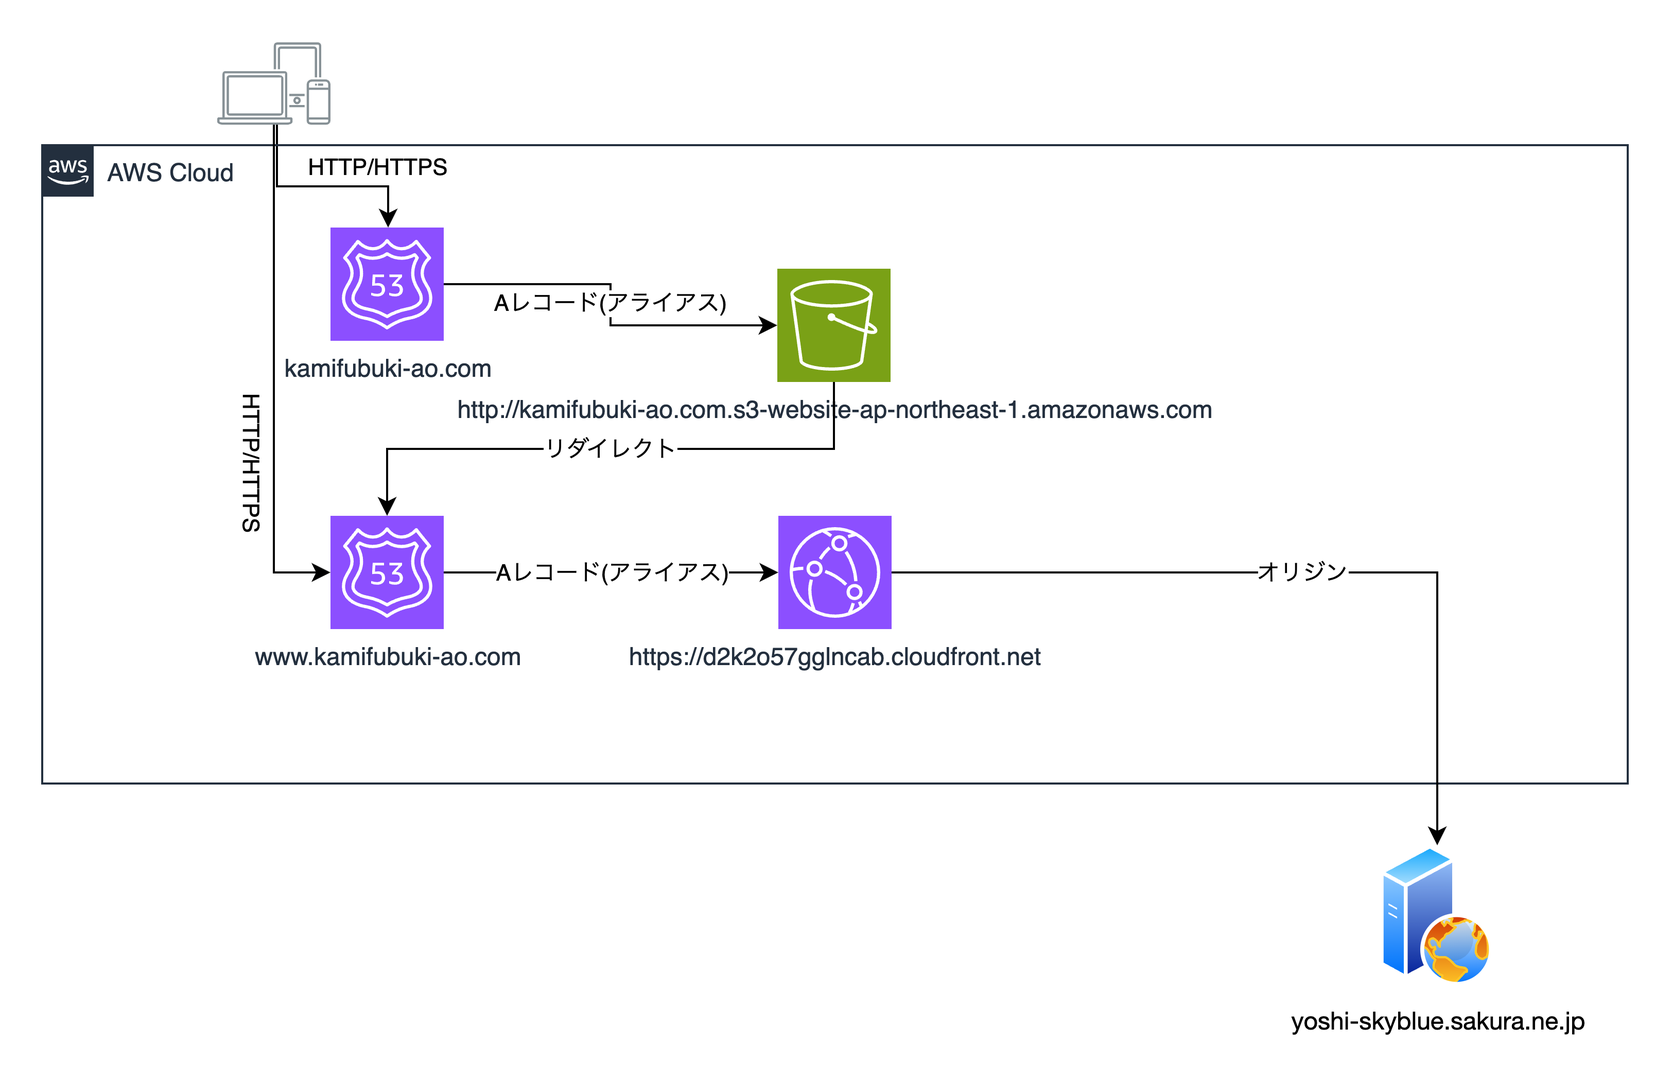
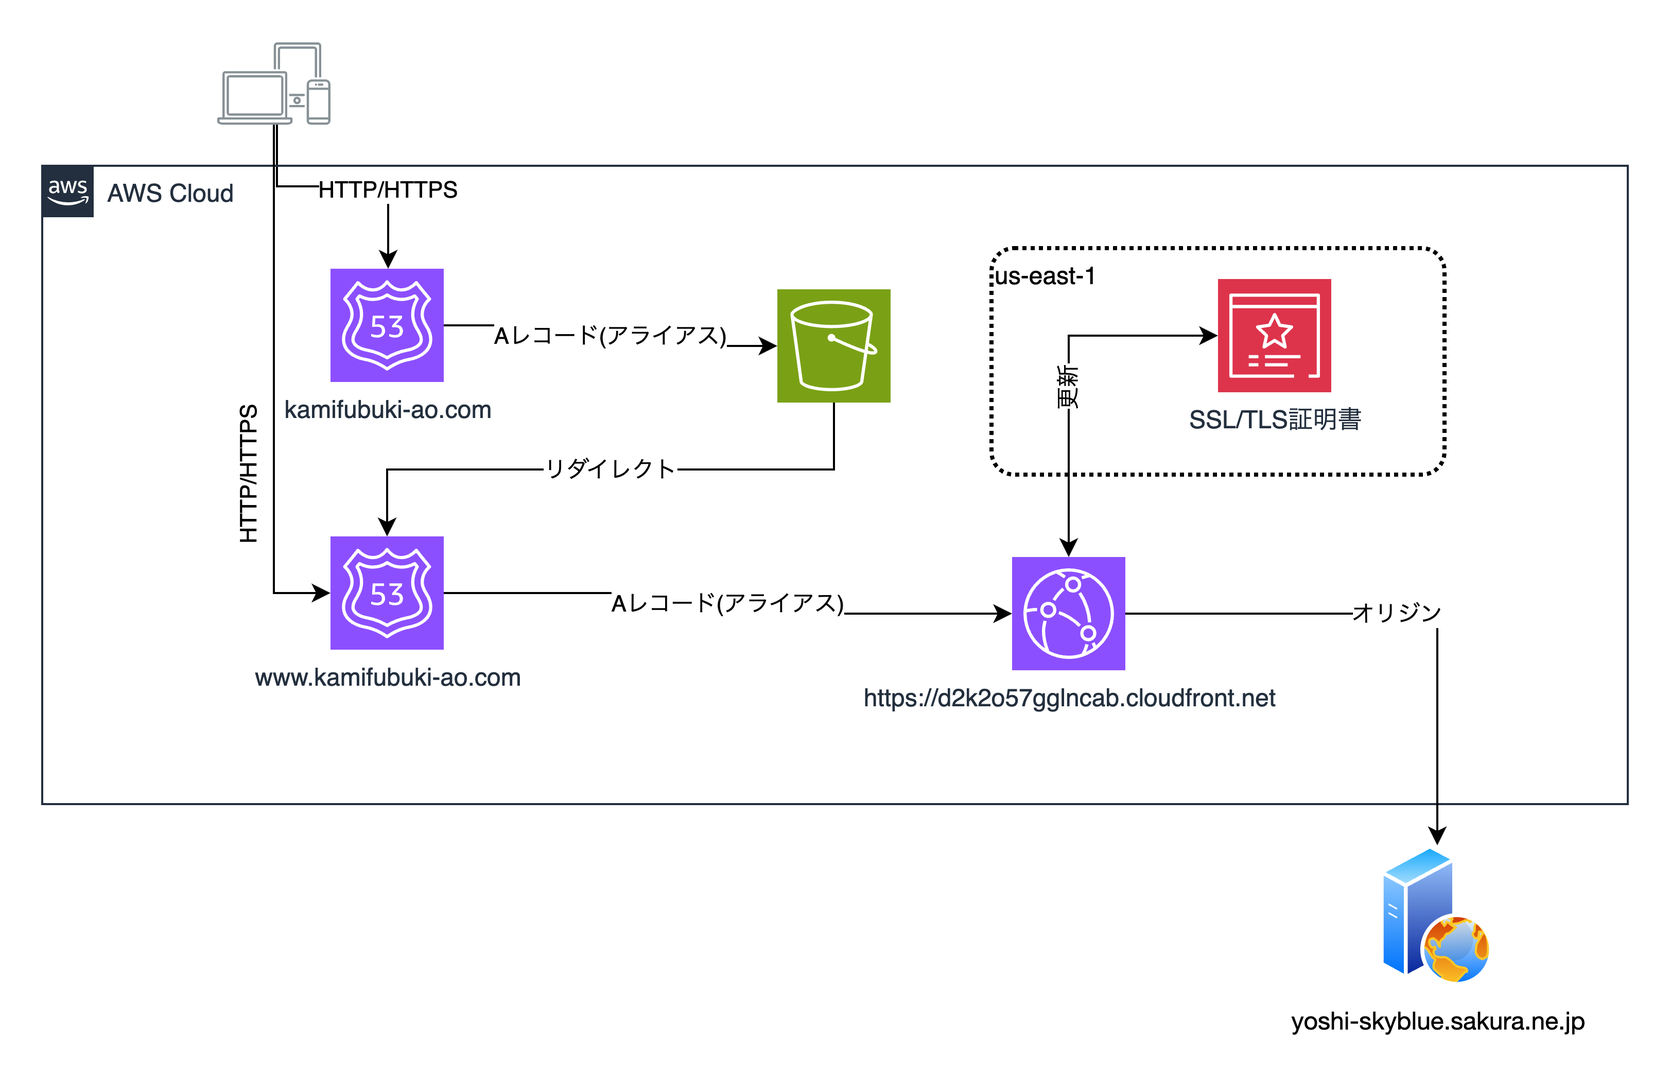
create how to change domain regist 2

diff --git a/articles/how-to-change-domain-regist-2.md b/articles/how-to-change-domain-regist-2.md
@@ -1,0 +1,359 @@
+---
+title: "ドメインをさくらインターネットからRoute 53へダウンタイムなしで移管する方法-Part2"
+emoji: "💻"
+type: "tech" # tech: 技術記事 / idea: アイデア
+topics: [ドメイン,移管,さくらインターネット,Route53]
+published: false
+---
+
+
+## はじめに
+
+前回の記事は[こちら][last-article]をご参照ください。
+
+**今回、AWSのACM,CloudFront,S3を使用します。基本的に基本的にこの通りに設定すれば一定アクセスまでは無料のはずですが、自分がAWS初学者なのもあって料金体系の把握ができていなく、リクエストに対してコストがかかってしまう場合もございます。各自が提供するサービスのリクエストに応じて変化するのでかならず事前に調べるようにしてください。**
+[AWS 料金表ページ][AWS-cost]
+
+### 自分の目標
+
+最終的にはこの構成図の通りになるようにしたいです
+![domain-diagram](/images/howto-change-domain-regist/AWS-configDiagram-Web.png)
+
+### 前回のあらすじ
+
+ドメイン移管の準備としてとしてゾーン情報をDNSサーバーをAWSに移行しました。
+
+#### 現状
+
+- ドメインの管理はまださくらのドメインのまま(課金先はさくらのドメインのまま)。
+- ドメインのゾーン情報,DNSのみAWSに移行した。
+- APEXドメイン(kamifubuki-ao.com)にアクセスするとさくらのレンタルサーバでホスティングされているwebサイトは表示されるもののSSL証明書はLet's Encryptのまま
+
+**だと思いますが、思考錯誤の過程でトライ&エラー繰り返してしまったので同じように作業しているあなたが全く同じ状況かわかりません。最終的に設定が終われば問題なく動作しますが、途中で記事に書いてるにもかかわらずドメインに繋がらなくなった等ございましたら以下問い合わせにてご連絡いただくかTwitterのDMまでご連絡ください。**
+[お問い合わせ][contact-link]
+
+## ドメインを移管する
+
+[Part1][last-article]で準備が終わったので、今回の一番の目的であるドメインの移管を行っていきます。
+
+### さくらのドメインで移管手続きをする
+
+ドメインの移管には、AuthCode(オースコード)という認証コードが必要になりますので、それをさくらのドメインに発行してもらう必要があります。
+会員メニュー > 契約中のドメイン一覧 > 移管したいドメインの手続きの欄に"転出"のリンクがあるのでそこから問い合わせます。
+
+![sakura-domain-1](/images/how-to-change-domain-regist-2/sakura-1.png)
+
+同意してください
+
+![sakura-domain-2](/images/how-to-change-domain-regist-2/sakura-2.png)
+
+一番上、会員基本情報のメールアドレスに発行されたAuthCodeが届くので、必ず受け取れるメールアドレスにしてください。
+
+サービス名称はすでにドメイン取得が選択されているので、変更しなくて大丈夫です。
+
+サーバー名/ドメイン名/IPアドレス/サービスコードの欄は任意になるので記入してもしなくても大丈夫ですが、一応記入しました。
+
+その下、質問内容のgTLDドメイン移管(転出依頼)はすでにすでに選択されていると思います。
+お問い合わせ区分は新たに実施~で大丈夫です
+
+![sakura-domain-3](/images/how-to-change-domain-regist-2/2025-03-11-15-24-25.png)
+
+申請ドメイン名も記述済みなので大丈夫です。
+管理者メールアドレスは、Route 53で申請したときにVerifyメールが来るので、受け取れるアドレスが良いですが、**もしゾーン情報のコピーミスでメールが自分のアドレスに届かなくなる可能性があるので、もし不安な方は他のメールサービスでも良いと思います。自分はiCloud.comで記入しています。**
+
+下の方、解約理由等は任意になるのでどちらでも大丈夫です。
+
+一番下の確認事項の同意だけチェックを忘れないようにして"次へ"をクリック。
+
+内容を確認して"お問い合わせの送信"で送信してください。
+
+回答までに2~3営業日かかるので一旦放置します。
+
+## SSL/TLS証明書周辺の設定を行う
+
+転出の手続きを待つ間に、構成図にも記載したようにSSL/TLS証明書周りの設定を行います。
+今回目指す構成をもう一度おさらいしましょう。
+
+![domain-diagram](/images/howto-change-domain-regist/AWS-configDiagram-Web.png)
+
+いままでSSL/TLS証明書はさくらのレンタルサーバーで取得できたLet's Encryptで証明を行っていたのですが、今回の移管に合わせてすべてAWS内で完結させたかったのでこのような形を撮ることにしました。
+
+Route 53のみではSSL/TLS証明書の管理ができないため、www.kamifubuki-ao.comとさくらのレンタルサーバの間にCloudFrontを噛ませてそことACMでSSL/TLS証明書を更新させるようにします。
+
+### AWS Certificate Manager(ACM)でSSL/TLS証明書を作成する
+
+この部分の設定を行っていきます。
+![domain-diagram-focus-1](/images/how-to-change-domain-regist-2/AWS-configDiagram-Web-1.png)
+
+[ACM][ACM]のコンソールから証明書一覧のページに飛びます
+
+::: message alert
+のちに後に作成するCloudFrontのリージョンがグローバルになるので、ACMのリージョンがus-east-1(米国(バージニア北部))なのを確認してください。
+それ以外のリージョンで作成されたSSL/TLS証明書はCloudFrontで使用できません。
+:::
+
+リクエストから新しい証明書を作成します。
+証明書タイプはパブリック証明書にしてください。
+
+![new-SSL/TLS-certificate](/images/how-to-change-domain-regist-2/2025-03-11-17-17-52.png)
+
+::: message alert
+ここの完全修飾ドメイン名にkamifubuki-ao.comのみ入力すると、APEXドメインしか有効にならなくなってしまいます。
+自分の場合個人的なこだわりで<www.つき>にリダイレクトさせたいので"*.kamifubuki-ao.com"のワイルドカードをつけたドメインも追加しておきます。
+
+ほかのサイトでサブドメインを使用したい場合はワイルドカードを追加したドメインも追加するようにしてください。
+
+もし<www.ドメイン>のみの利用想定であればワイルドカードではなく<www.ドメイン>の形で追加しても構いません。(他のサブドメインでの利用も考えているので自分はワイルドカードワイルドカードを使用しています。)
+:::
+
+そのほかのキーアルゴリズム,タグは初期設定のままで構いません。
+
+### ゾーン情報にCNAMEレコードを追加する
+
+AWSの場合、詳細画面からRoute 53で直接レコードを作成できるのでそちらから追加してしまって大丈夫です。便利。
+
+![ACM](/images/how-to-change-domain-regist-2/2025-03-11-17:26:13.png)
+![ACM-2](/images/how-to-change-domain-regist-2/2025-03-11-17:28.28.png)
+
+上の画像は両方とも両方とも検証ステータスが成功になっていますが、追加したばかりだとなっていないはずなので、両方ともチェックを入れてレコードを作成してください。
+
+### CloudFrontのディストリビューションを作成する
+
+続いて、こちらの設定をしていきます。
+![domain-diagram-focus-2](/images/how-to-change-domain-regist-2/AWS-configDiagram-Web-2.png)
+
+[CloudFront][CF]のコンソールにアクセスします。
+CloudFrontは自動的にリージョンがグローバルになるので、特にリージョンは設定しなくて大丈夫です。
+
+一覧の右上にある"ディストリビューションを作成"から新しいディストリビューションを作成します。
+
+![new-Dist](/images/how-to-change-domain-regist-2/2025-03-11-18-28-44.png)
+
+| 項目名 | 設定内容 |
+| --- | --- |
+| Origin dmain| さくらのレンタルサーバの初期ドメイン |
+| プロトコル | HTTPSのみ |
+| Minimum Origin SSL protocol | TLSv1.2 |
+| Origin Path | 空欄 |
+| 名前 | 自由(後から変更できないのでなんでもいいですが慎重に) |
+|カスタムヘッダーを追加 | 空欄 |
+| Enable Origin Shield | いいえ |
+| 追加設定 | すべて初期値 |
+
+![new-Dist-2](/images/how-to-change-domain-regist-2/2025-03-11-19-46-45.png)
+
+| 項目名 | 設定内容 |
+| --- | --- |
+| パスパターン | デフォルト |
+| オブジェクトを自動的に変換 | Yes |
+| ビューワープロトコルポリシー | Redirect HTTP to HTTPS |
+| 許可されたHTTPメソッド | GET, HEAD, OPTIONS, PUT, POST, PATCH, DELETE |
+| ビューワーのアクセスを制限する | No |
+
+![new-Dist-3](/images/how-to-change-domain-regist-2/2025-03-11-19-50-41.png)
+
+| 項目名 | 設定内容 |
+| --- | --- |
+| キャッシュキーとオリジンリクエスト | Cache policy and origin request policy (recommended) (初期値) |
+| キャシュポリシー/オリジンリクエストポリシー | 初期値(Recommended for custom origins) |
+| レスポンスヘッダーポリシー | 空欄 |
+| 追加設定 | すべて初期値 |
+
+---
+
+**次の項、WAFに関してはあなたが管理するサービスの重要度に応じて設定してください。**
+**ここでのスクリーンショットを用いた説明はしません。(自分がオフで設定しているため)**
+**セキュリティ保護を有効にするともっともベーシックな設定で1000万件のりクエストに対して14USDのコストがかかります。WAFをオフにする場合、追加コストはかかりません。**
+
+---
+
+![new-Dist-4](/images/how-to-change-domain-regist-2/2025-03-11-19-58-26.png)
+
+| 項目名 | 設定内容 |
+| --- | --- |
+| Anycast static IP list | 空欄 |
+| 料金クラス | すべてのエッジロケーションを使用する (最高のパフォーマンス) |
+| 代替ドメイン名 (CNAME) | <www.つきのドメイン名> |
+| Custom SSL certificate | 先ほどACMで作成した証明書を選択 |
+| レガシークライアントサポート | チェック外したまま |
+| セキュリティポリシー | TLSv1.2_2021 (推奨) |
+
+![new-Dist-5](/images/how-to-change-domain-regist-2/2025-03-11-22-29-27.png)
+
+| 項目名 | 設定内容 |
+| --- | --- |
+| サポートされているHTTPバージョン | 特に制限ないですが、両方チェックをいれておけば問題ないです |
+| デフォルトルートオブジェクト | 空欄 |
+| IPv6 | 各自がホスティングするサービスでIPv6を使用していなければオフ |
+| ログ配信 | おまかせします |
+
+以上設定したらディストリビューションを作成。
+
+![Maked-Dist](/images/how-to-change-domain-regist-2/2025-03-11-23-41-15.png)
+
+代替ドメイン名が自身が目指したいドメインになっているか、カスタムSSL証明書の右端に緑のチェックマークがあるかどうかを確認してください。
+
+## <www.ドメイン>からのルーティングを行う
+
+<www.ドメイン>からのリクエストをCloudFrontに経由させてオリジン(さくらのレンタルサーバ)に向かわせるようにRoute53の設定をしていきます。
+
+下図の部分です。
+![domain-diagram-focus-4](/images/how-to-change-domain-regist-2/AWS-configDiagram-Web-3.png)
+
+まずRoute53の[コンソール][r53-console]から該当ドメインのホストゾーンのページを開きます。
+
+レコードを作成
+![r53-hostzone](/images/how-to-change-domain-regist-2/2025-03-12-0-17-14.png)
+
+| 項目 | 設定内容 |
+| --- | --- |
+| レコード目 | www |
+| レコードタイプ | A |
+| エイリアス(トグルスイッチ) | オン |
+| トラフィックのルーティング名 | CloudFrontディストリビューションへのエイリアス |
+| 2個目のドロップダウンリスト | 先ほど作成したCloudFrontディストリビューションのドメイン名 |
+| ルーティングポリシー | シンプルルーティング |
+
+入力が完了したらレコードを作成してください。
+
+Chrome等で開発者ツールのネットワークタブを開いたまま開いたまま確認して
+x-cache:    Miss from cloudfront
+の表記があればCloudFrontを噛ませられている証拠です。
+
+![Chrome](/images/how-to-change-domain-regist-2/2025-03-12-02-18-04.png)
+
+![SSL/TLS](/images/how-to-change-domain-regist-2/2025-03-12-02-20-11.png)
+
+httpsで接続できていること/発行元の一般名がAmazon RSAになっていることが確認できれば
+この章でやりたかったことは完了です。
+
+## APEXドメインへのリクエストを<www.ドメイン>にリダイレクトさせる
+
+今回、個人的にAPEX(裸)ドメインからのアクセスも<www.ドメイン>に合流させたいので、APEXドメインへのリクエストを<www.ドメイン>にリダイレクトさせる設定を行います。
+
+この部分ですね。
+
+![domain-diagram-focus-4](/images/how-to-change-domain-regist-2/AWS-configDiagram-Web-4.png)
+
+AWS Route53では裸ドメインから<www.ドメイン>に飛ばすCNAMEレコードを作成することが仕様上できません。そのため、回避策としてS3バケットにて静的Webサイトをホスティングしてそちらから301リダイレクトを行います。
+
+### S3バケットを作成する
+
+::: message
+作成するリージョンの縛りはACMと違ってありません。お好みのリージョンで作成してください。
+:::
+
+![S3-Bucket-1](/images/how-to-change-domain-regist-2/2025-03-12-02-33-33.png)
+
+| 項目 | 設定内容 |
+| --- | --- |
+| バケットタイプ | 汎用 |
+| バケット名 | APEXドメイン(リダイレクト元となるドメイン)|
+| オブジェクト所有者 | ACL無効(推奨) |
+
+ここから下はすべて初期値のままで大丈夫です。
+一番下"バケットを作成"から作成してください。
+
+::: message
+バケット名はリダイレクト元になるドメインにしてください。
+'www.kamifubuki-ao.com' > 'kamifubuki-ao.com'  → 'www.kamifubuki-ao.com'
+'kamifubuki-ao.com' > 'www.kamifubuki-ao.com' → 'kamifubuki-ao.com'
+:::
+
+### S3バケットの静的ウェブサイトホスティング機能を用いて301リダイレクトを設定する
+
+作成したバケット名をクリックして詳細ページを確認してください。
+オブジェクトは無いままで大丈夫です。
+
+プロパティタブの一番下、静的ウェブサイトホスティングの欄の編集をクリックします。
+
+![S3-Bucket-2](/images/how-to-change-domain-regist-2/2025-03-12-02-44-16.png)
+
+| 項目 | 設定内容 |
+| --- | --- |
+| 静的ウェブサイトホスティング | 有効にする |
+| ホスティングタイプ | オブジェクトのリクエストをリダイレクトする |
+| ホスト名 | <www.ドメイン> |
+| プロトコル | https |
+
+以上確認したら変更を保存します。
+
+### Route53にてAPEXドメインへのリクエストを作成したS3バケットに飛ばす
+
+Route53の[コンソール][r53-console]に戻ってホストゾーンを確認します。
+
+[以前][last-article-r53]コピーしたときにAPEXドメインのAレコードをさくらのレンタルサーバに
+向けて設定していたはずです。そこを先程作成したS3バケットででホスティングしているWebサイトにするだけです。
+
+![R53](/images/how-to-change-domain-regist-2/2025-03-12-03-01-00.png)
+
+| 項目 | 設定内容 |
+| --- | --- |
+| レコード名 | 空欄 |
+| レコードタイプ | A |
+| エイリアス(トグルスイッチ) | オン |
+| トラフィックのルーティング先1 | S3ウェブサイトエンドポイントへのエイリアス |
+| トラフィックのルーティング先2 | 先ほど作成したバケットが存在するリージョン |
+| トラフィックのルーティング先3 | バケットを選択(APEXドメイン) |
+| ルーティングポリシー | シンプルルーティング |
+| ターゲットのヘルスを評価 | いいえ |
+
+以上確認したら保存してください。
+
+## さくらのインターネット側の設定を確認する
+
+さくらのレンタルサーバ側で初期ドメインやWebサービスをホスティングしてるサーバー側の設定を最後行います。
+
+::: message alert
+Twitterで嘆きましたが、設定完了したと思ってAPEXドメインにアクセスしたところ、無限にリダイレクトされる現象が起きました。のちのち確認したところ、**さくらのレンタルサーバ側でWAFを設定していたのが原因でした。**
+
+以下設定する際は注意してください。
+:::
+
+### ドメイン設定を更新する
+
+![sakura-config](/images/how-to-change-domain-regist-2/2025-03-12-04-47-13.png)
+
+さくらレンタルサーバ側で初期ドメインの設定を行います。(CloudFrontのオリジンとしてリクエストを送るため)
+
+画像のなかで重要なのは以下の2点です。
+
+- SSLの利用 → SSLを利用する
+- HTTPS転送設定 → HTTPSに転送する
+
+### さくらのレンタルサーバ側でWAFをオフにする
+
+![WAF-off](/images/how-to-change-domain-regist-2/2025-03-12-20-45-19.png)
+
+セキュリティ > WAF設定ドメインから初期ドメインの利用するのチェックを外してください。
+
+::: message alert
+この設定がオンのままだったからか、APEXドメイン,<www.ドメイン>どちらにアクセスしても無限にリダイレクトが繰り返される問題が起き続けました、、
+推奨されていませんがさくらのレンタルサーバ側ではWAFがオンにできないようなので、WAFを使用する場合はRoute53から設定するようにしてください。
+**追加コストがかかる場合があります。**
+:::
+
+### ドメインの移管を完了する
+
+さくらのドメインから移管手続きをした後2~3営業日でさくらのドメインからAuth Codeが記載されたメールが届きます。そのAuth CodeをRoute53に入力したら移管申請が完了になります。
+
+Route53のサイドペインからドメイン > 登録済みドメインを確認します。
+
+![R53-1](/images/how-to-change-domain-regist-2/2025-03-12-20-51-57.png)
+右上の移管(イン)から単一のドメインを選択。
+
+あとは案内に従ってドメイン,事業者情報,Auth Codeを入力すれば申請は完了です。
+あとは2,3営業日後にさくらのドメインで移管申請をしたときに入力したメールサービスに認証用リンクが届くのでアクセスして認証すすればドメインの移管は完了です。
+
+### おつかれさまでした
+
+設定するうえで、なにかお困りのことございましたらお気軽に下記リンクからお問い合わせください。対応いたします。
+[お問い合わせ][contact-link]
+
+[last-article]: https://zenn.dev/leopardkk/articles/howto-change-domain-regist-1 "前回の記事"
+[last-article-r53]: https://zenn.dev/leopardkk/articles/howto-change-domain-regist-1#route-53%E3%81%AB%E3%81%A6%E3%83%9B%E3%82%B9%E3%83%88%E3%82%BE%E3%83%BC%E3%83%B3%E3%82%92%E6%96%B0%E8%A6%8F%E4%BD%9C%E6%88%90 "前回の記事"
+[aws-cost]: https://aws.amazon.com/jp/pricing/?nc2=h_ql_pr_ln&aws-products-pricing.sort-by=item.additionalFields.productNameLowercase&aws-products-pricing.sort-order=asc&awsf.Free%20Tier%20Type=*all&awsf.tech-category=*all "AWSコスト"
+[contact-link]: https://aoskyblue.notion.site/1a8c3a7e5a7b814cabc5ff8d80de75fa?pvs=105 "問い合わせフォーム"
+[ACM]: https://us-east-1.console.aws.amazon.com/acm/home?region=us-east-1#/certificates/list "ACM"
+[CF]: https://us-east-1.console.aws.amazon.com/cloudfront/v4/home?region=us-east-1#/distributions "CF"
+[r53-console]: https://us-east-1.console.aws.amazon.com/route53/v2/hostedzones?region=us-east-1# "R53-Console"

diff --git a/articles/how-to-change-domain-regist-1.md b/articles/how-to-change-domain-regist-1.md
@@ -61,7 +61,7 @@ published: true
 
 | レコード名 | タイプ | 値 |
 | ---- | ---- | ---- |
-|kamifubuki-ao.com | CNAME | {IPv4 for sakura(Webserver)} |
+| kamifubuki-ao.com | A | {IPv4 for sakura(Webserver)} |
 | {domain} | MX | 10 {さくらのレンタルサーバの初期ドメイン}.sakura.ne.jp. |
 | mail.{domain} | CNAME | {domain}. |
 | ftp.{domain} | CNAME | {domain}. |
@@ -102,6 +102,11 @@ EX.
 
 - APEXドメインからwww.つきドメインへのリダイレクト
 - AWS側でSSL証明書を実装
+
+::: message
+2025.3.11   構成図にACMを追加しました。
+2023.3.12   [こちら](#route-53にてホストゾーンを新規作成)でさくらのレンタルサーバからRoute53にコピーすべきレコードの欄の一番上が誤ってCNAMEと記載していたので A に修正しました。
+:::
 
 次回: now on writing...
 
